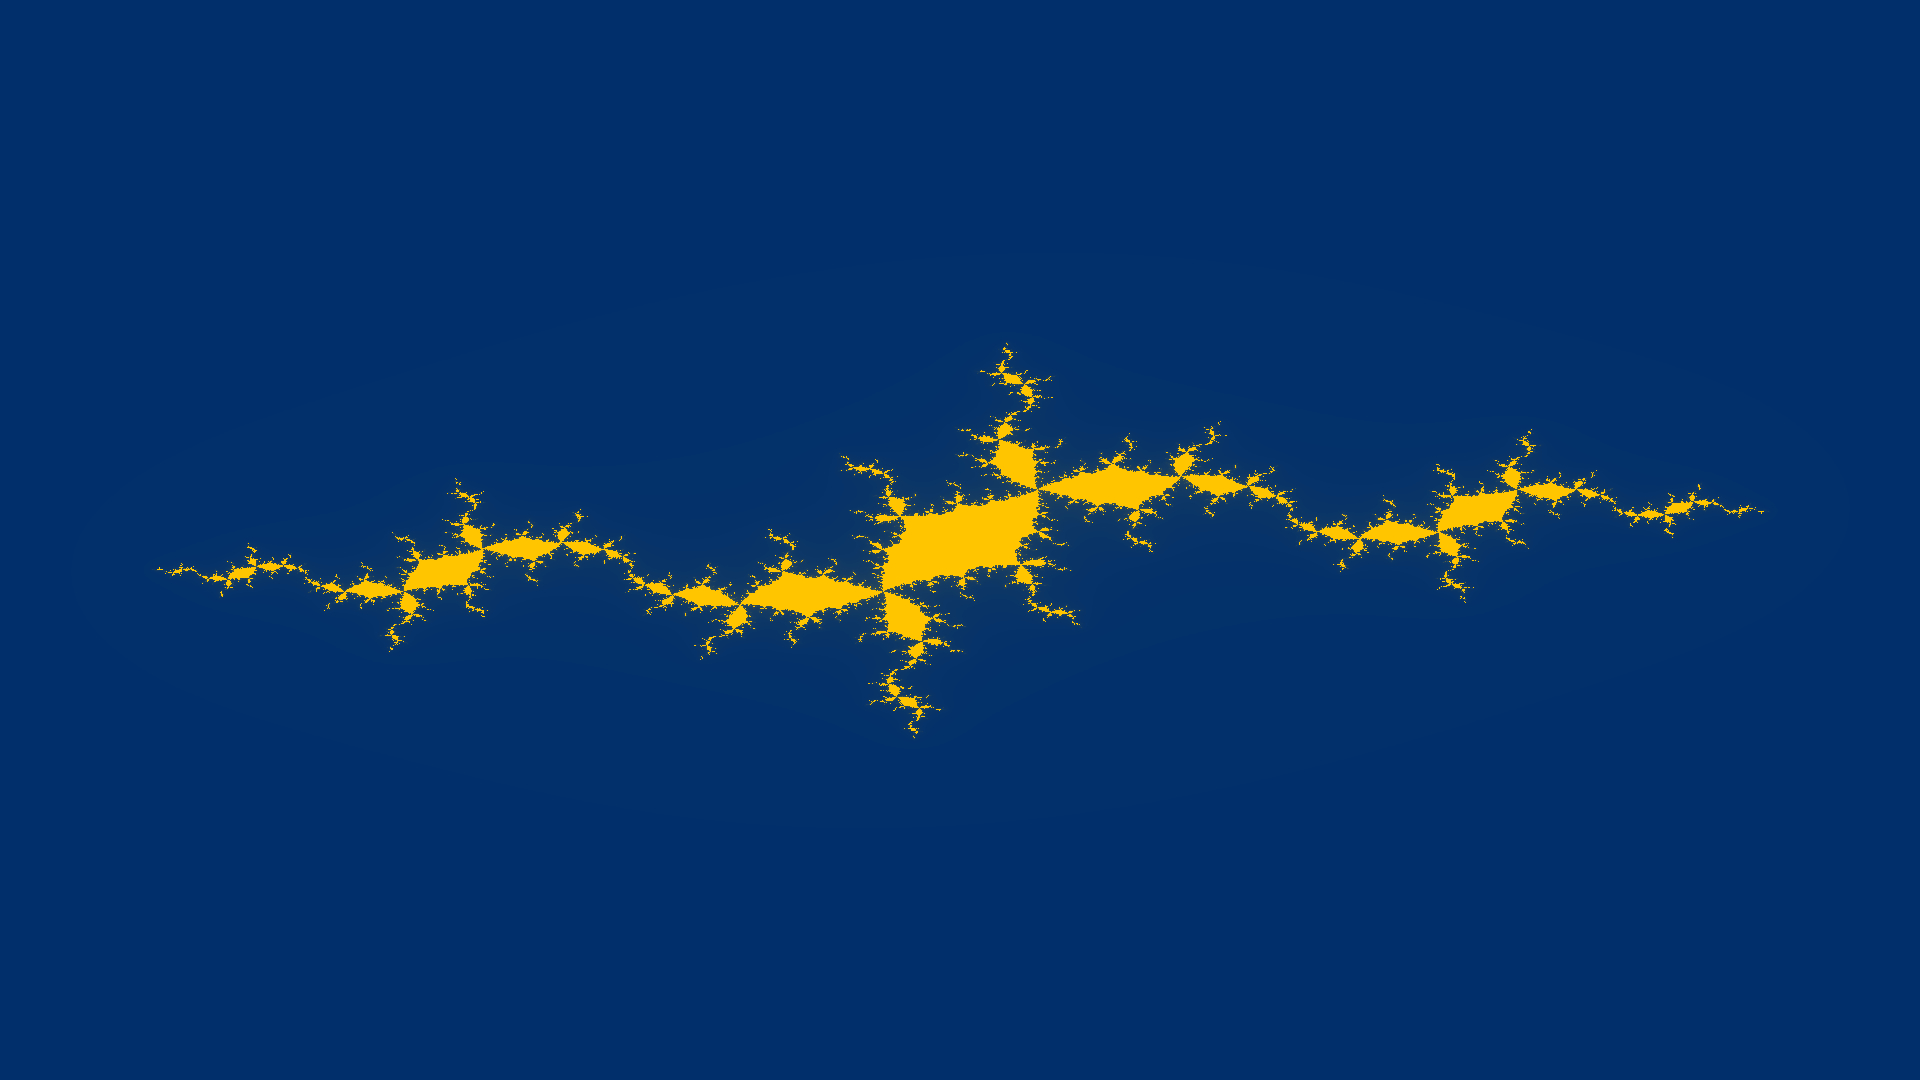
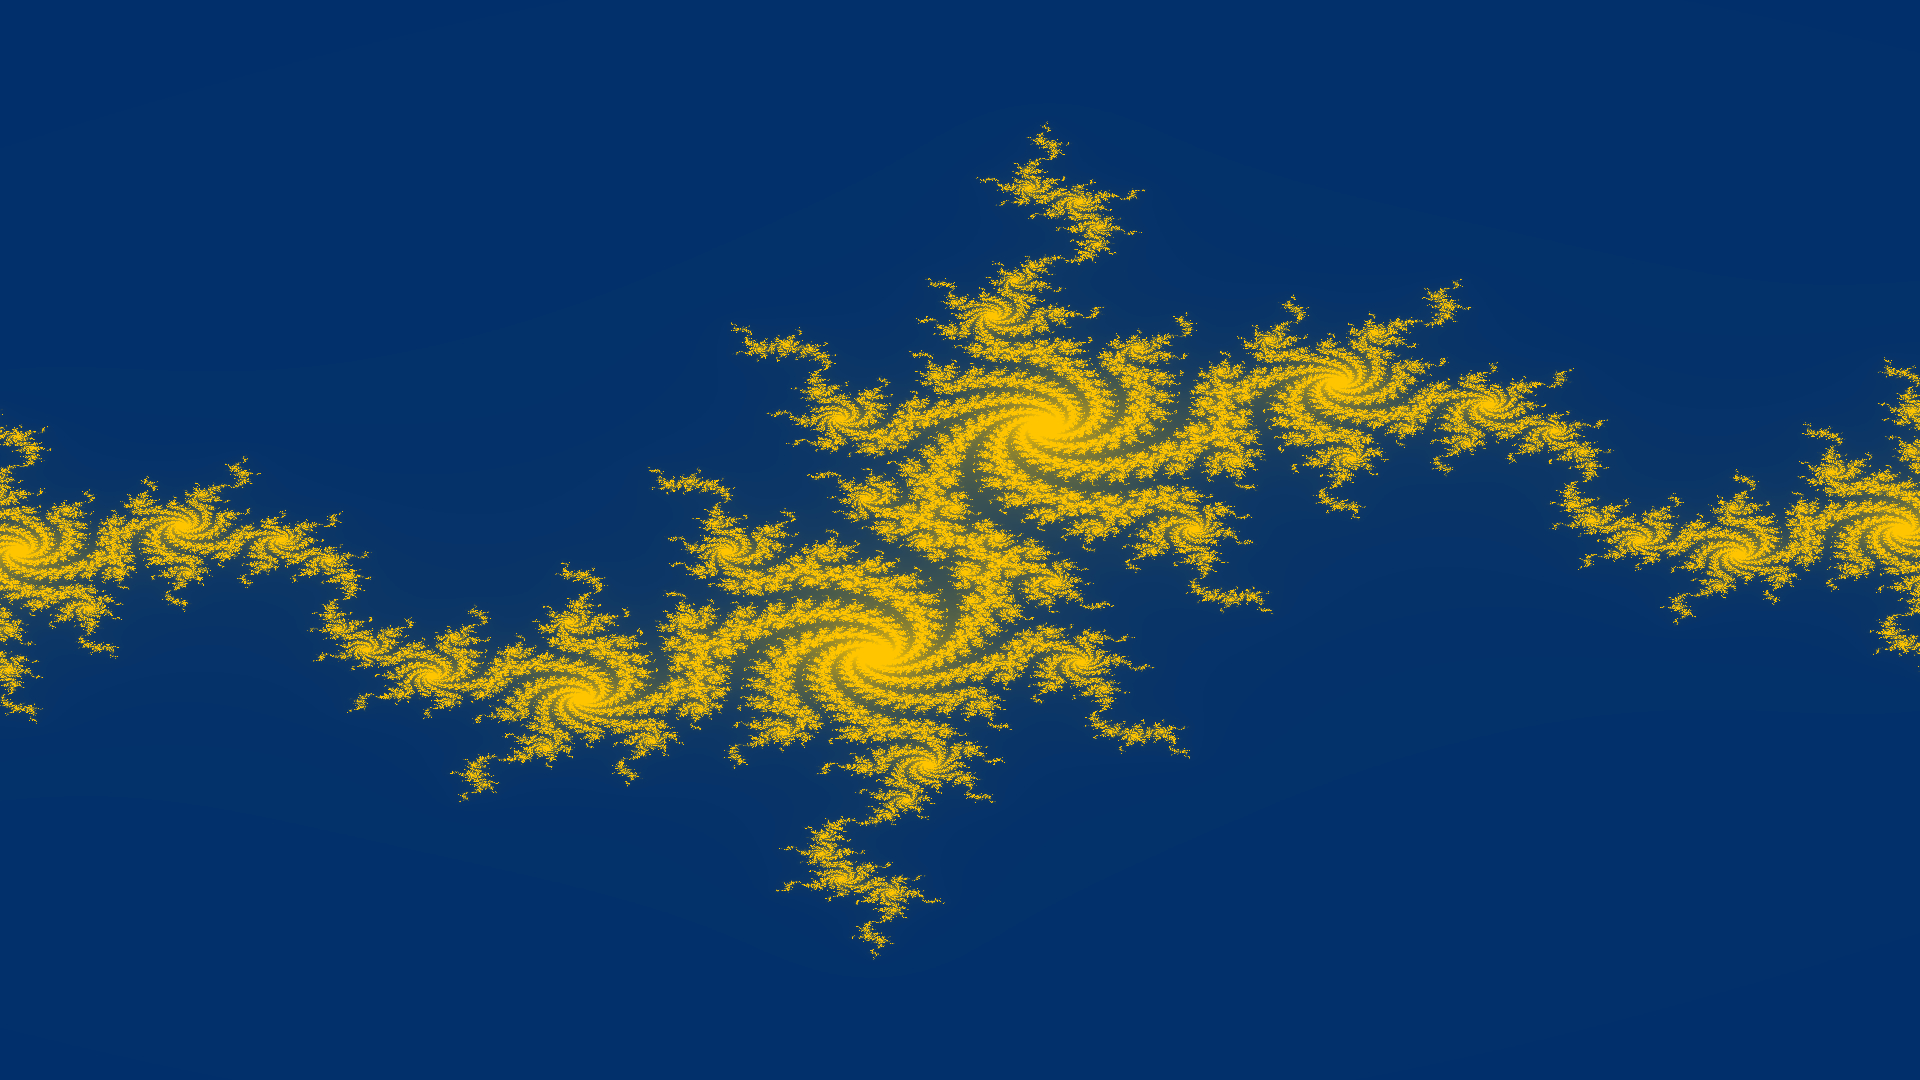
Implemented zoom feature.

Changed region(s): [[0.0, 0.1222, 1.0, 0.8861]]

diff --git a/src/functions.cpp b/src/functions.cpp
@@ -17,24 +17,25 @@ using namespace cimg_library;
 /**
  * Returns the complex number at the given pixel on the image
  *
- * @param x     the x coord of the pixel
- * @param y     the y coord of the pixel
- * @param img_x the width of the image
- * @param img_y the height of the image
+ * @param x    the x coord of the pixel
+ * @param y    the y coord of the pixel
+ * @param imgx the width of the image
+ * @param imgy the height of the image
+ * @param zoom the zoom scale
  *
  * @return the complex number at the given pixel on the image
  */
-complex<double> getComplex(const double& x, const double& y, const double& img_x, const double& img_y)
+complex<double> getComplex(const double& x, const double& y, const double& imgx, const double& imgy, const double& zoom)
 {
 	// Return complex value
-	return SCALE * complex<double>(x / img_x, y / img_y) - SHIFT;
+	return (SCALE * complex<double>(x / imgx, y / imgy) - SHIFT) / zoom;
 }
 
 /**
  * Computes the JuliaSet algorithm of the given complex numbers
  *
- * @param z the complex number to check
- * @param c the constant complex number
+ * @param z    the complex number to check
+ * @param c    the constant complex number
  * 
  * @return the number of the iterations before infinity
  */
@@ -62,11 +63,12 @@ int juliaSetAlgorithm(std::complex<double>& z, const std::complex<double>& c)
  *
  * @param image the image object to generate the Juliaset in
  * @param c     the complex constant being used
+ * @param zoom  the zoom scale
  * @param map   the colormap being used
  *
- * @return number of iterations that were calculated
+ * @return total number of iterations that were calculated
  */
-int generateJuliasetImage(cimg_library::CImg<char>& image, const std::complex<double>& c, const ColorMapRGB* map)
+int generateJuliasetImage(cimg_library::CImg<char>& image, const std::complex<double>& c, const double& zoom, const ColorMapRGB* map)
 {
 	// Image dimensions
 	int imgx = image.width(), imgy = image.height();
@@ -80,9 +82,9 @@ int generateJuliasetImage(cimg_library::CImg<char>& image, const std::complex<do
 	cimg_forXY(image, x, y) 
 	{
 		// Compute JuliaSet map at pixel location
-		z      = getComplex(x, y, imgx, imgy); // Complex number z at pixel
-		result = juliaSetAlgorithm(z, c);      // Julia set algorithm
-		color  = map->color(result);		   // Compute color map
+		z      = getComplex(x, y, imgx, imgy, zoom); // Complex number z at pixel
+		result = juliaSetAlgorithm(z, c);            // Julia set algorithm
+		color  = map->color(result);		         // Compute color map
 		
 		// Set Color
 		image(x, y, 0) = color.red;

diff --git a/include/JuliaSet/functions.h b/include/JuliaSet/functions.h
@@ -30,14 +30,15 @@ const std::complex<double> SHIFT(2.0, 2.0);
 /**
  * Returns the complex number at the given pixel on the image
  *
- * @param x     the x coord of the pixel
- * @param y     the y coord of the pixel
- * @param img_x the width of the image
- * @param img_y the height of the image
+ * @param x    the x coord of the pixel
+ * @param y    the y coord of the pixel
+ * @param imgx the width of the image
+ * @param imgy the height of the image
+ * @param zoom the zoom scale
  *
  * @return the complex number at the given pixel on the image
  */
-std::complex<double> getComplex(const double& x, const double& y, const double& img_x, const double& img_y);
+std::complex<double> getComplex(const double& x, const double& y, const double& imgx, const double& imgy, const double& zoom);
 
 /**
  * Computes the JuliaSet algorithm of the given complex numbers
@@ -54,10 +55,11 @@ int juliaSetAlgorithm(std::complex<double>& z, const std::complex<double>& c);
  *
  * @param image the image object to generate the Juliaset in
  * @param c     the complex constant being used
+ * @param zoom  the zoom scale
  * @param map   the colormap being used
  *
  * @return total number of iterations that were calculated
  */
-int generateJuliasetImage(cimg_library::CImg<char>& image, const std::complex<double>& c, const ColorMapRGB* map);
+int generateJuliasetImage(cimg_library::CImg<char>& image, const std::complex<double>& c, const double& zoom, const ColorMapRGB* map);
 
 #endif

diff --git a/src/main.cpp b/src/main.cpp
@@ -49,6 +49,9 @@ int main(int argc, char const *argv[])
 	double imag    = atof(argv[2]); // Constant imaginary component
 	unsigned img_x = atoi(argv[3]); // Image width
 	unsigned img_y = atoi(argv[4]); // Image height
+	
+	// Parse optionals
+	double zoom = argc > 5 ? atof(argv[5]) : 1.0; // Zoom	
 
 	// -----------------------------CONSTANTS-----------------------------
 
@@ -67,7 +70,7 @@ int main(int argc, char const *argv[])
 	double time = clock();
 
 	// Generate julia set image
-	int iter = generateJuliasetImage(jimage, c, &BLUE_TO_YELLOW);
+	int iter = generateJuliasetImage(jimage, c, zoom, &BLUE_TO_YELLOW);
 
 	// End clock
 	time = (clock() - time) / CLOCKS_PER_SEC;
